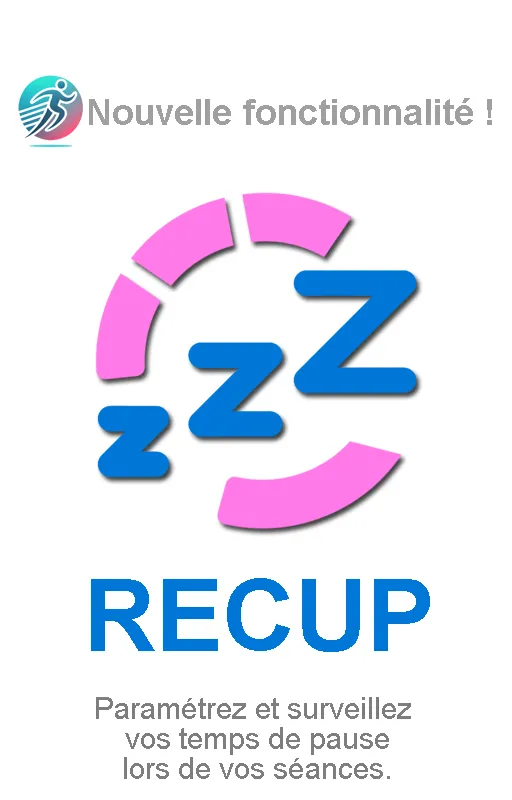
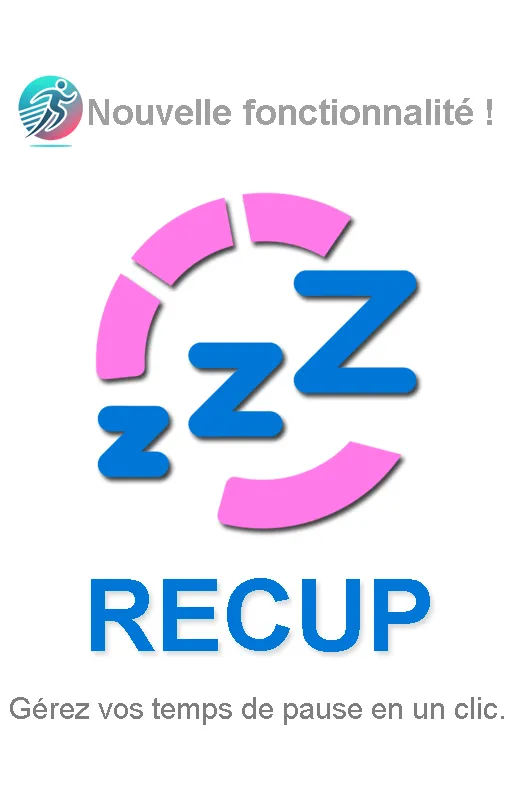
Recup slide en place

diff --git a/MonSuiviSportif/index.html b/MonSuiviSportif/index.html
@@ -1316,6 +1316,8 @@
                                 <option value="90">1 min 30</option>
                                 <option value="120">2 min</option>
                                 <option value="300">5 min</option>
+                                <option value="600">10 min</option>
+                                <option value="900">15 min</option>
                             </select>
  
 
